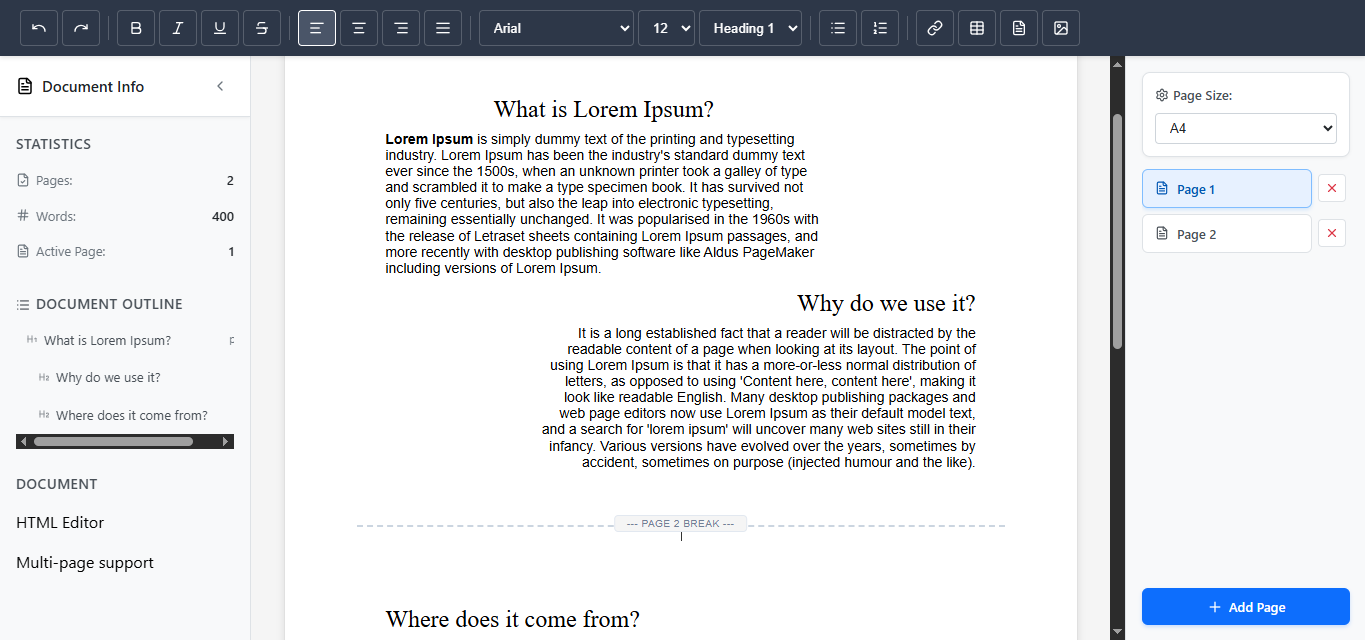
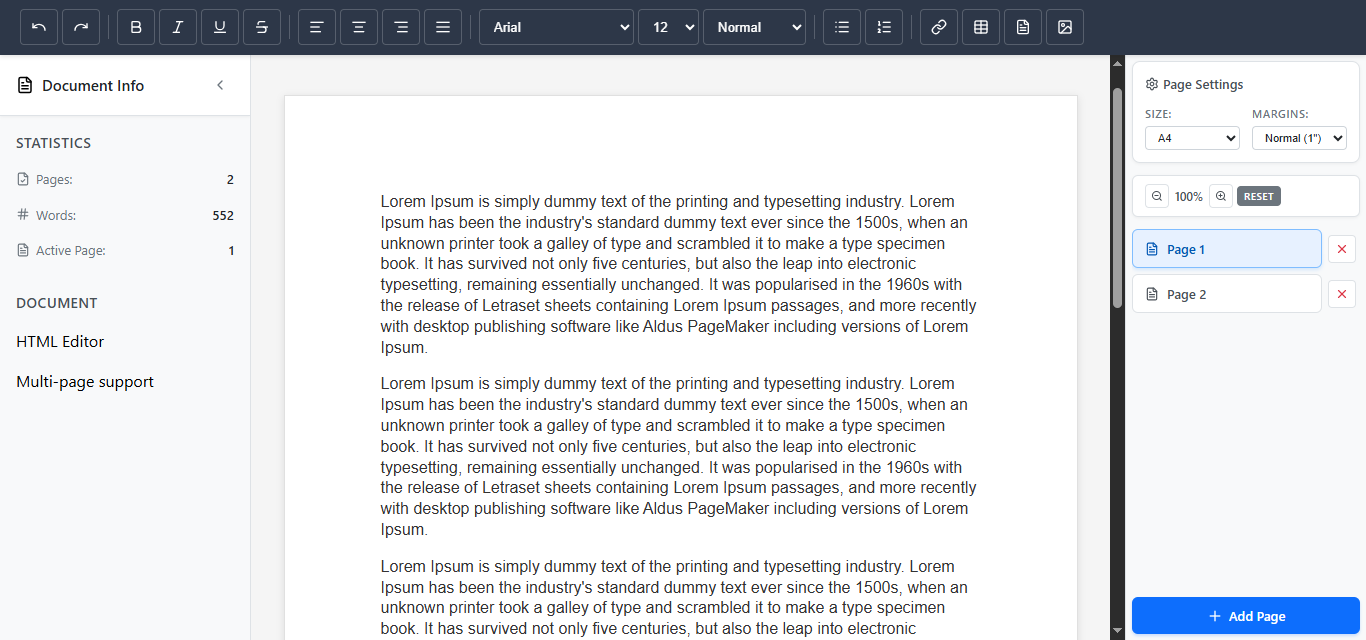
Release 1.1.4: Add zoom controls and margin features

diff --git a/CHANGELOG.md b/CHANGELOG.md
@@ -5,6 +5,10 @@ All notable changes to this project will be documented in this file.
 The format is based on [Keep a Changelog](https://keepachangelog.com/en/1.0.0/),
 and this project adheres to [Semantic Versioning](https://semver.org/spec/v2.0.0.html).
 
+## [1.1.4] - 2025-10-06
+- **Zoom Controls**: Added zoom functionality for better document viewing and navigation
+- **Margin Controls**: Implemented page margin adjustments for improved layout customization
+
 ## [1.1.3] - 2025-10-05
 - **Documentation Reorganization**: Moved wiki documentation to docs/wiki/ directory
 - **README Updates**: Centralized changelog references to separate CHANGELOG.md files
